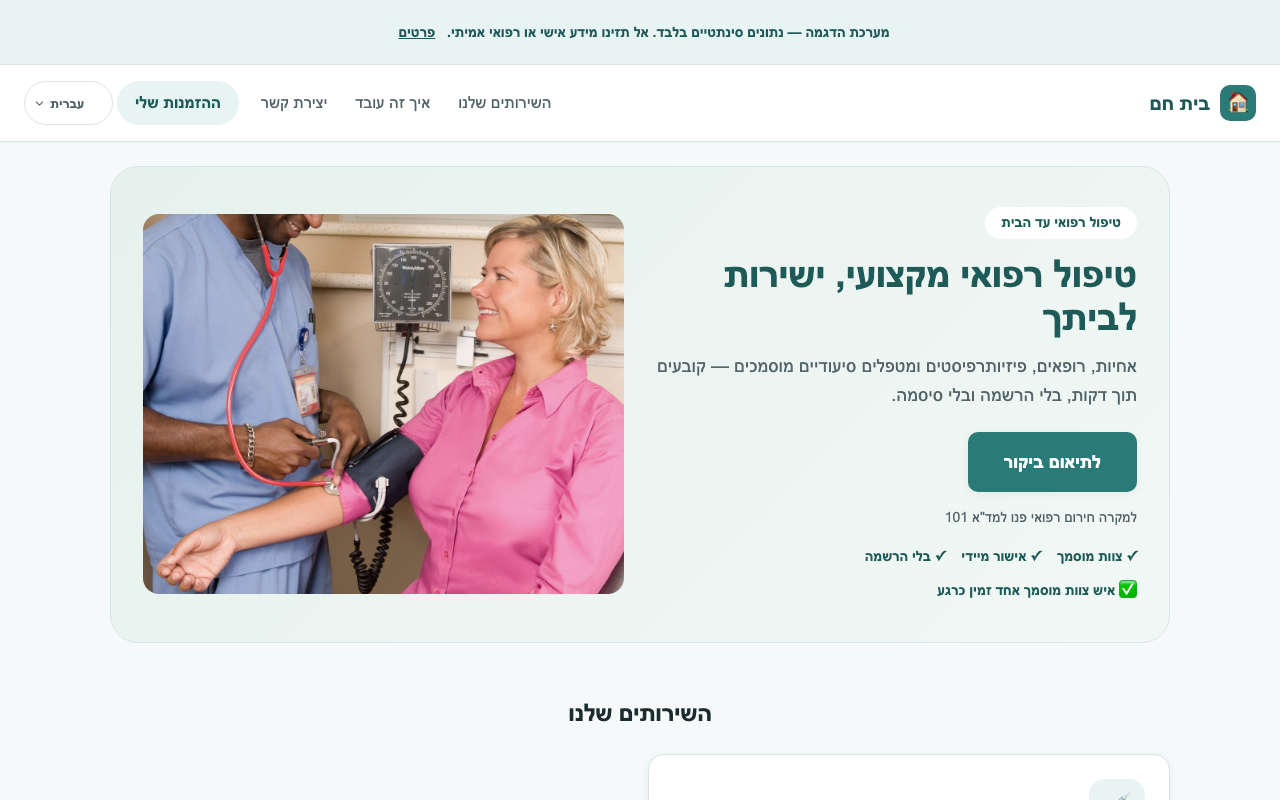
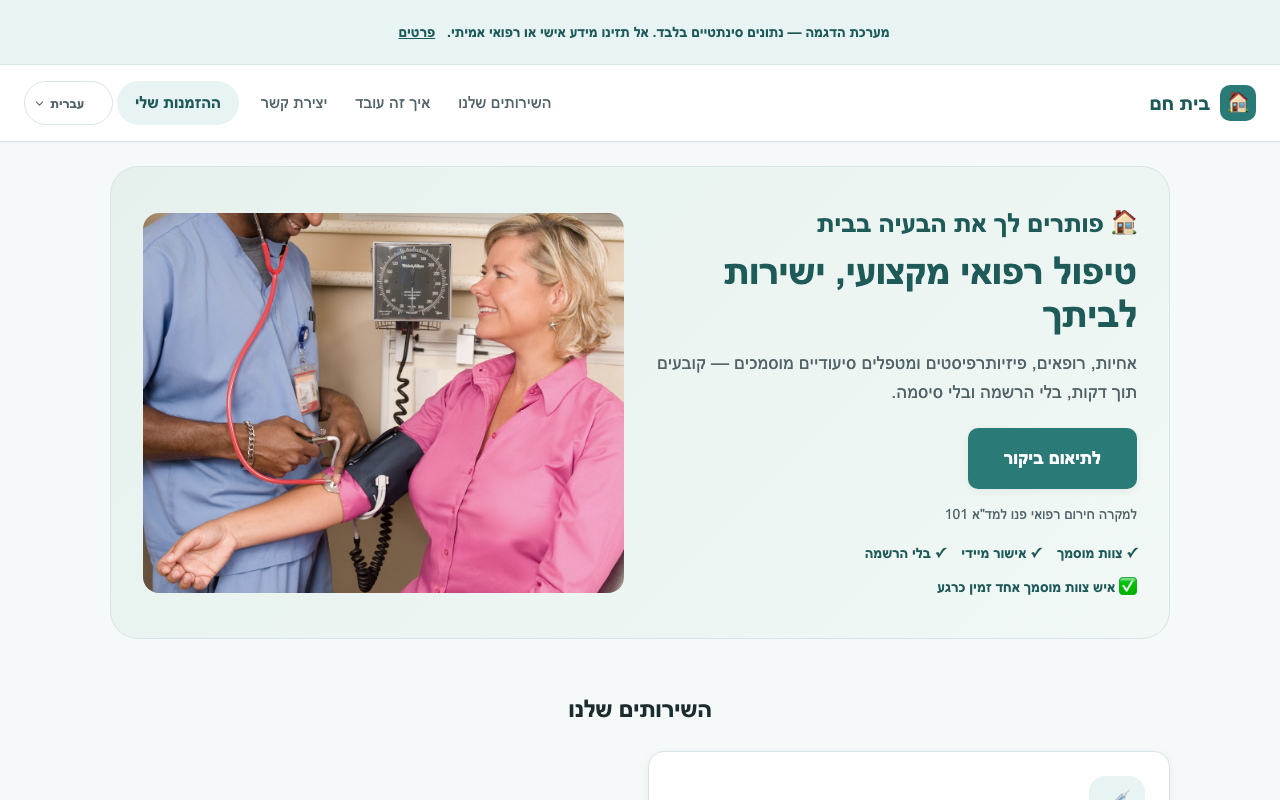
Restore the hero tagline 'פותרים לך את הבעיה בבית' (he/en/ar) at prominent size
It was a deliberate user request (79ddc84, 89050a6) that the design audit
wrongly reverted. Kept in the brand deep color instead of the accent orange.

diff --git a/public/i18n.js b/public/i18n.js
@@ -69,7 +69,7 @@ const I18N_STRINGS = {
     },
     index: {
       title: "בית חם — טיפול רפואי עד הבית",
-      heroEyebrow: "טיפול רפואי עד הבית",
+      heroEyebrow: "🏠 פותרים לך את הבעיה בבית",
       heroTitle: "טיפול רפואי מקצועי, ישירות לביתך",
       heroSubtitle: "אחיות, רופאים, פיזיותרפיסטים ומטפלים סיעודיים מוסמכים — קובעים תוך דקות, בלי הרשמה ובלי סיסמה.",
       heroCta: "לתיאום ביקור",
@@ -209,7 +209,7 @@ const I18N_STRINGS = {
     },
     index: {
       title: "Warm Home — Home Medical Care",
-      heroEyebrow: "Medical care, at home",
+      heroEyebrow: "🏠 We solve the problem for you, at home",
       heroTitle: "Professional medical care, straight to your door",
       heroSubtitle: "Licensed nurses, doctors, physiotherapists and caregivers — book in minutes, no sign-up and no password.",
       heroCta: "Book a Visit",
@@ -349,7 +349,7 @@ const I18N_STRINGS = {
     },
     index: {
       title: "بيت دافئ — رعاية طبية منزلية",
-      heroEyebrow: "رعاية طبية حتى باب المنزل",
+      heroEyebrow: "🏠 نحلّ لك المشكلة، في المنزل",
       heroTitle: "رعاية طبية احترافية، مباشرة إلى بابك",
       heroSubtitle: "ممرضون وأطباء وأخصائيو علاج طبيعي ومقدمو رعاية مرخّصون — احجز خلال دقائق، دون تسجيل ودون كلمة مرور.",
       heroCta: "حجز زيارة",

diff --git a/public/index.html b/public/index.html
@@ -30,7 +30,7 @@
     <section class="hero">
       <img class="hero-photo" src="images/hero-medical-check.jpg" data-i18n-alt="index.heroPhotoAlt" alt="איש צוות רפואי בודק לחץ דם למטופלת, בחיוך" width="1200" height="1000" loading="eager">
       <div class="hero-text">
-        <div class="hero-eyebrow" data-i18n="index.heroEyebrow">טיפול רפואי עד הבית</div>
+        <div class="hero-eyebrow" data-i18n="index.heroEyebrow">🏠 פותרים לך את הבעיה בבית</div>
         <h1 data-i18n="index.heroTitle">טיפול רפואי מקצועי, ישירות לביתך</h1>
         <p class="hero-subtitle" data-i18n="index.heroSubtitle">אחיות, רופאים, פיזיותרפיסטים ומטפלים סיעודיים — קובעים ביקור בית תוך דקות, בלי הרשמה ובלי סיסמה.</p>
         <a href="staff.html" class="btn btn-primary hero-cta" data-i18n="index.heroCta">לתיאום ביקור</a>

diff --git a/public/styles.css b/public/styles.css
@@ -762,16 +762,13 @@ section { margin-bottom: 48px; }
 }
 .hero-text { order: 1; }
 .hero-eyebrow {
-  display: inline-block;
-  font-family: var(--font-body);
-  font-weight: 700;
-  font-size: 14px;
-  line-height: 1.4;
+  display: block;
+  font-family: var(--font-head);
+  font-weight: 800;
+  font-size: 26px;
+  line-height: 1.25;
   color: var(--primary-dark);
-  background: var(--surface);
-  padding: 6px 16px;
-  border-radius: 999px;
-  margin-bottom: 14px;
+  margin-bottom: 10px;
 }
 .hero h1 {
   font-size: 38px;
@@ -950,6 +947,7 @@ section { margin-bottom: 48px; }
 
 @media (max-width: 560px) {
   .hero { padding: 28px 20px 28px; margin-top: 16px; border-radius: var(--radius); }
+  .hero-eyebrow { font-size: 20px; }
   .hero h1 { font-size: 28px; }
   .hero-subtitle { font-size: 17px; }
   html, body { font-size: 16px; }

diff --git a/public/service-worker.js b/public/service-worker.js
@@ -5,7 +5,7 @@
 // API תמיד הולכות ישירות לרשת. שמירת טיוטות אופליין (visit_reports) מטופלת בנפרד
 // ב-app.js (תור-סנכרון מפורש ב-localStorage), לא כאן.
 
-const CACHE_VERSION = "home-care-crm-shell-v12";
+const CACHE_VERSION = "home-care-crm-shell-v13";
 
 const APP_SHELL = [
   "index.html",
